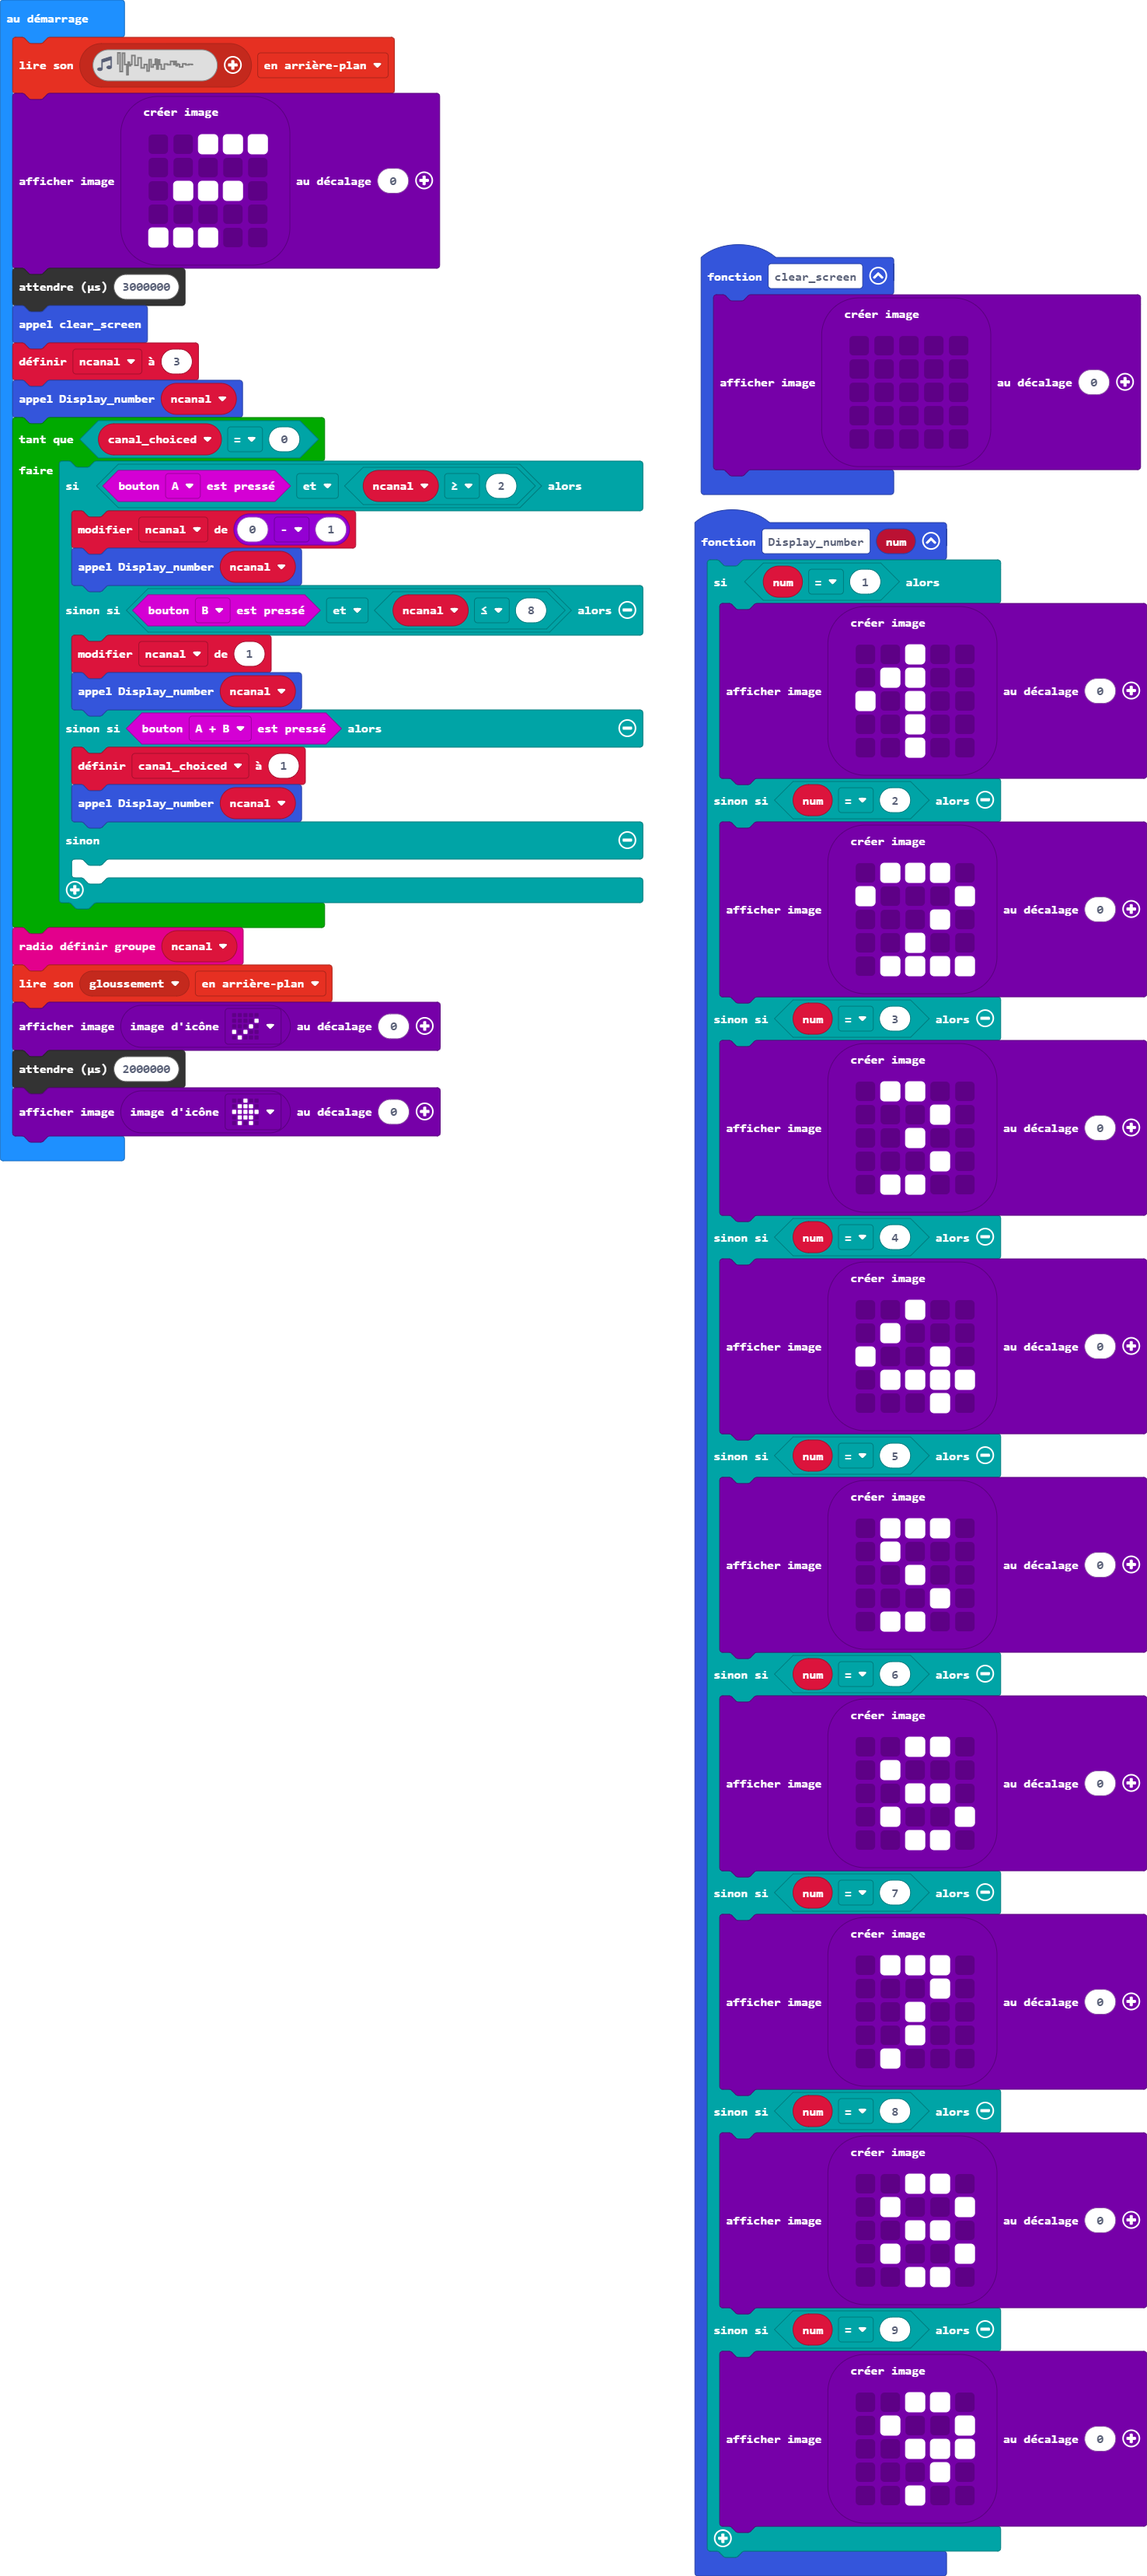
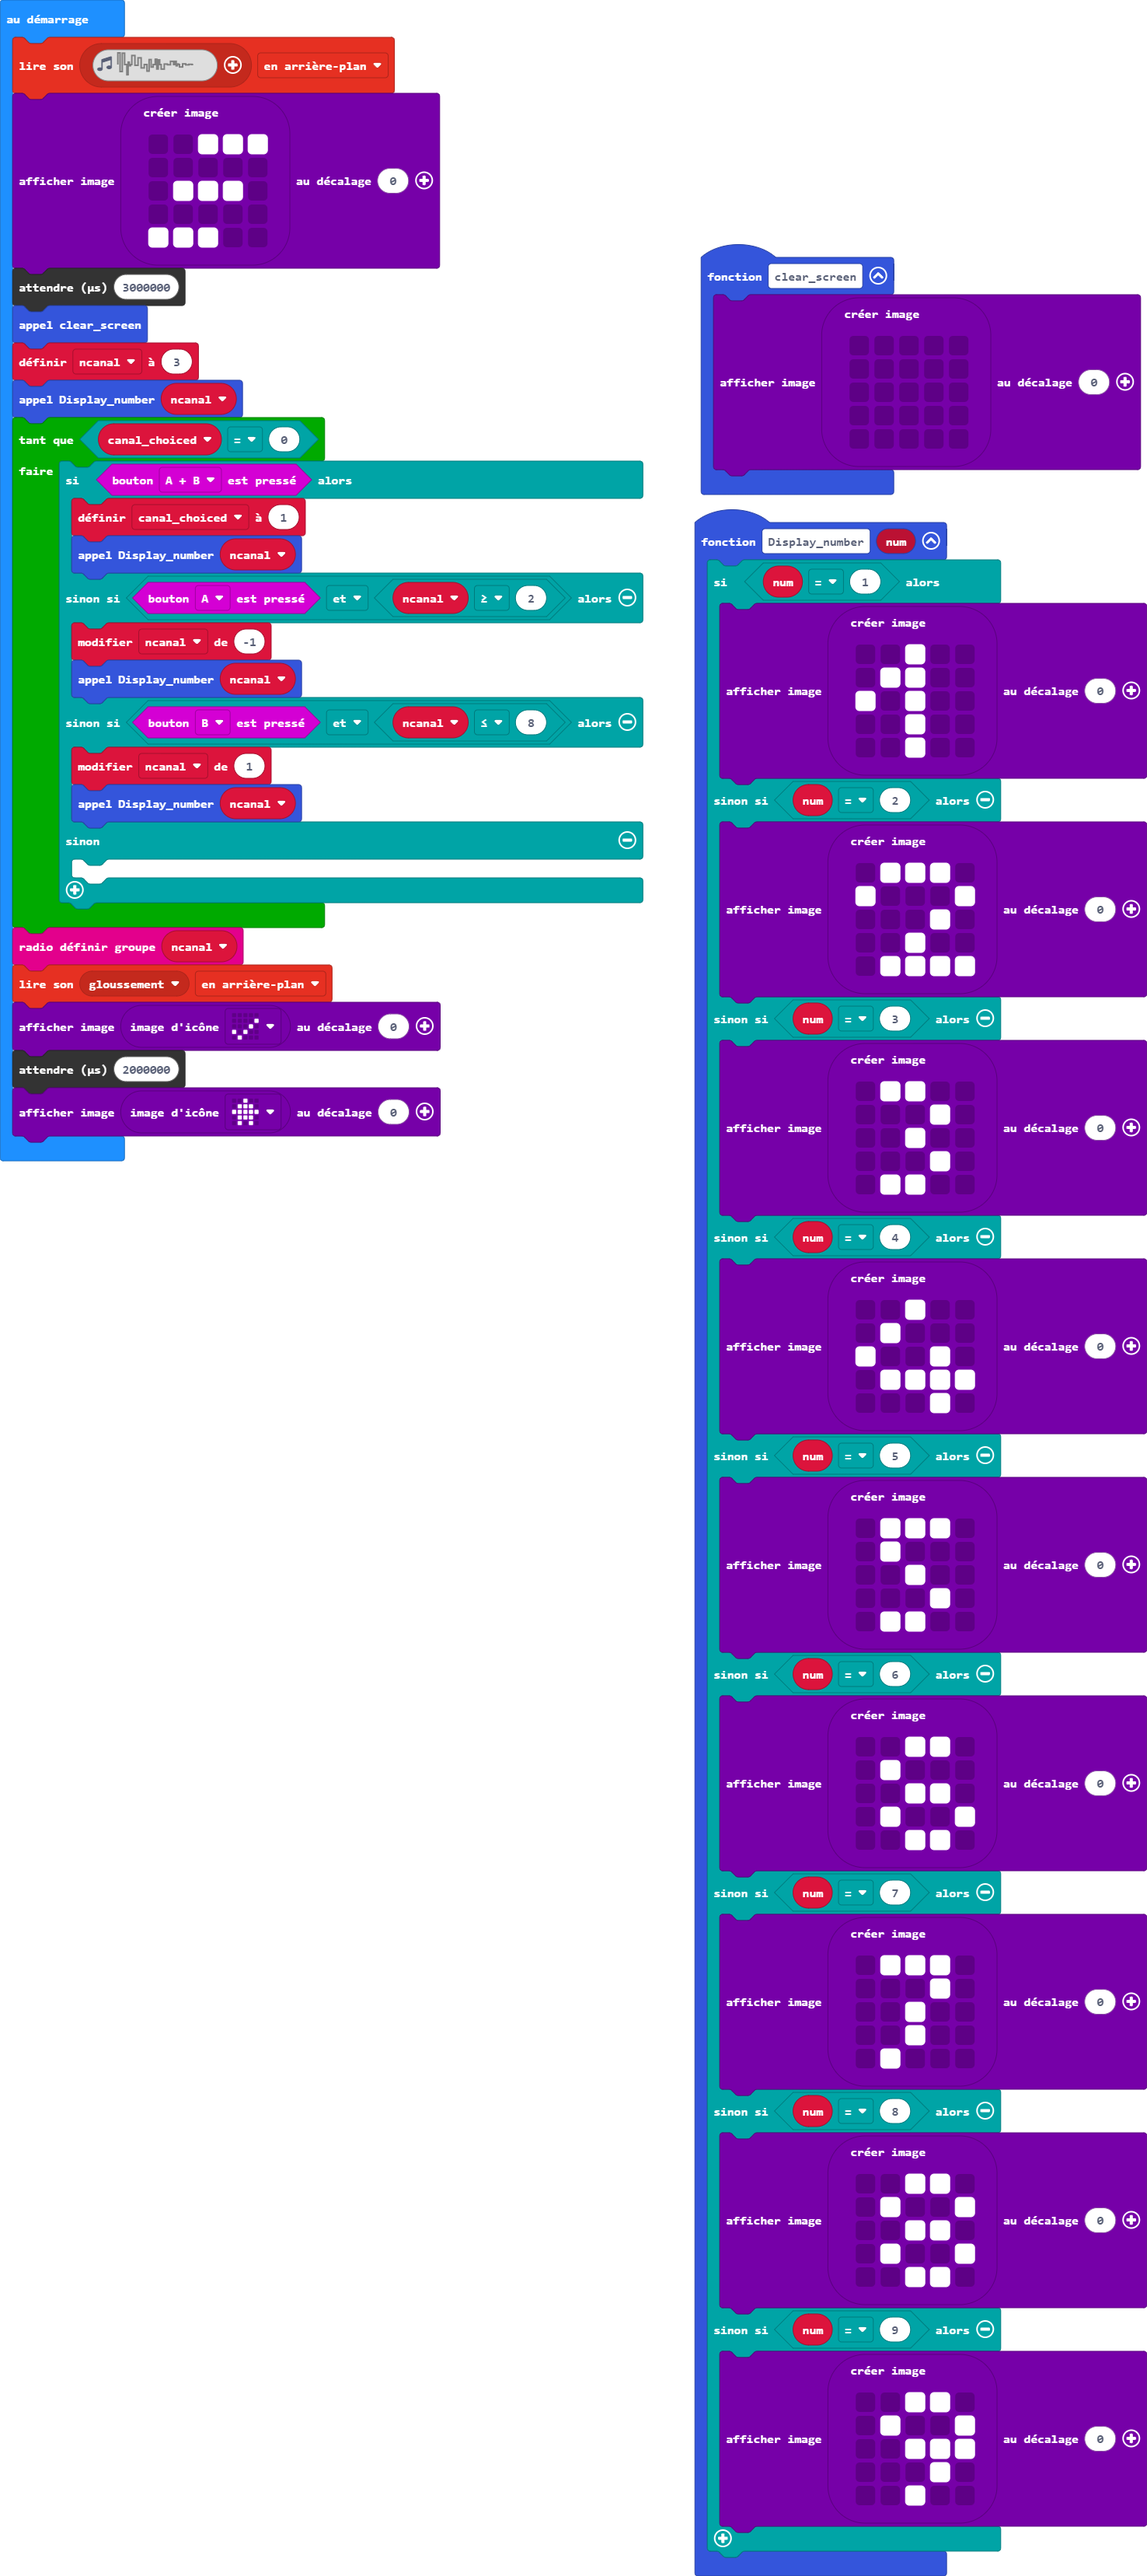
Patch de la confirmation de la première sélection

Changed region(s): [[0.0623, 0.1554, 0.561, 0.3109]]

diff --git a/main.ts b/main.ts
@@ -96,14 +96,14 @@ clear_screen()
 let ncanal = 3
 Display_number(ncanal)
 while (canal_choiced == 0) {
-    if (input.buttonIsPressed(Button.A) && ncanal >= 2) {
-        ncanal += 0 - 1
+    if (input.buttonIsPressed(Button.AB)) {
+        canal_choiced = 1
+        Display_number(ncanal)
+    } else if (input.buttonIsPressed(Button.A) && ncanal >= 2) {
+        ncanal += -1
         Display_number(ncanal)
     } else if (input.buttonIsPressed(Button.B) && ncanal <= 8) {
         ncanal += 1
-        Display_number(ncanal)
-    } else if (input.buttonIsPressed(Button.AB)) {
-        canal_choiced = 1
         Display_number(ncanal)
     } else {
     	

diff --git a/main.py b/main.py
@@ -1,3 +1,7 @@
+class Test:
+    def __init__(self):
+        self.state = True
+
 def Display_number(num: number):
     if num == 1:
         images.create_image("""
@@ -80,6 +84,15 @@ def clear_screen():
                 . . . . .
     """).show_image(0)
 canal_choiced = 0
+music.play_sound_effect(music.create_sound_effect(WaveShape.NOISE,
+        54,
+        54,
+        255,
+        0,
+        500,
+        SoundExpressionEffect.NONE,
+        InterpolationCurve.LINEAR),
+    SoundExpressionPlayMode.IN_BACKGROUND)
 images.create_image("""
     . . # # #
         . . . . .
@@ -100,6 +113,12 @@ while canal_choiced == 0:
         Display_number(ncanal)
     elif input.button_is_pressed(Button.AB):
         canal_choiced = 1
+        Display_number(ncanal)
     else:
         pass
 radio.set_group(ncanal)
+music.play_sound_effect(music.builtin_sound_effect(soundExpression.giggle),
+    SoundExpressionPlayMode.IN_BACKGROUND)
+images.icon_image(IconNames.YES).show_image(0)
+control.wait_micros(2000000)
+images.icon_image(IconNames.HOUSE).show_image(0)
